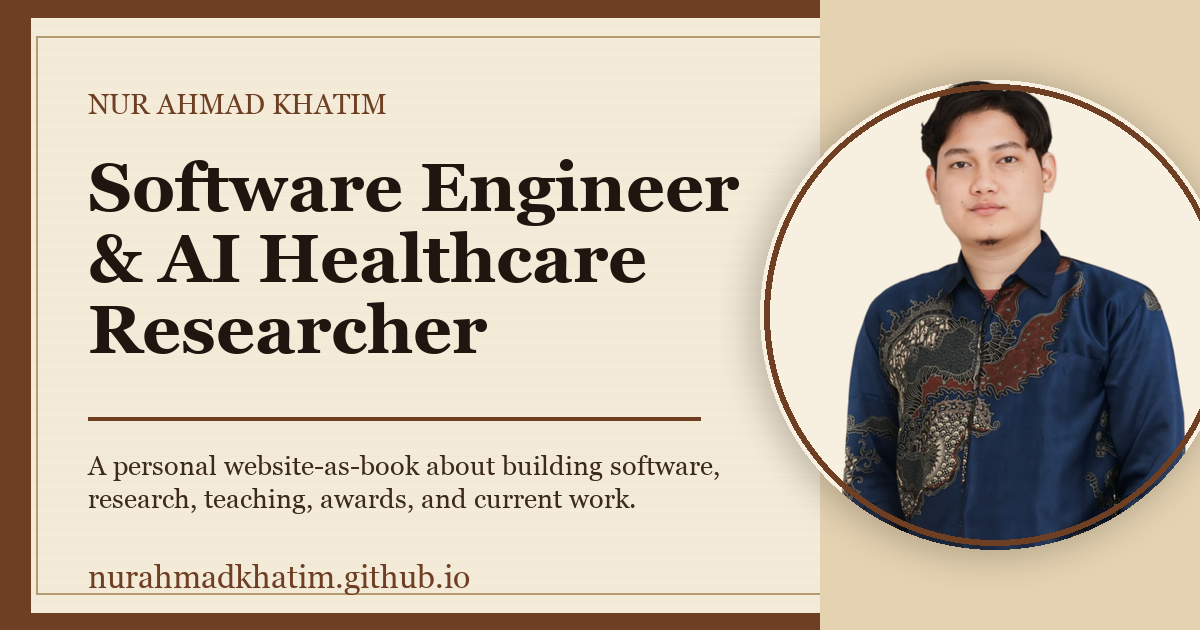
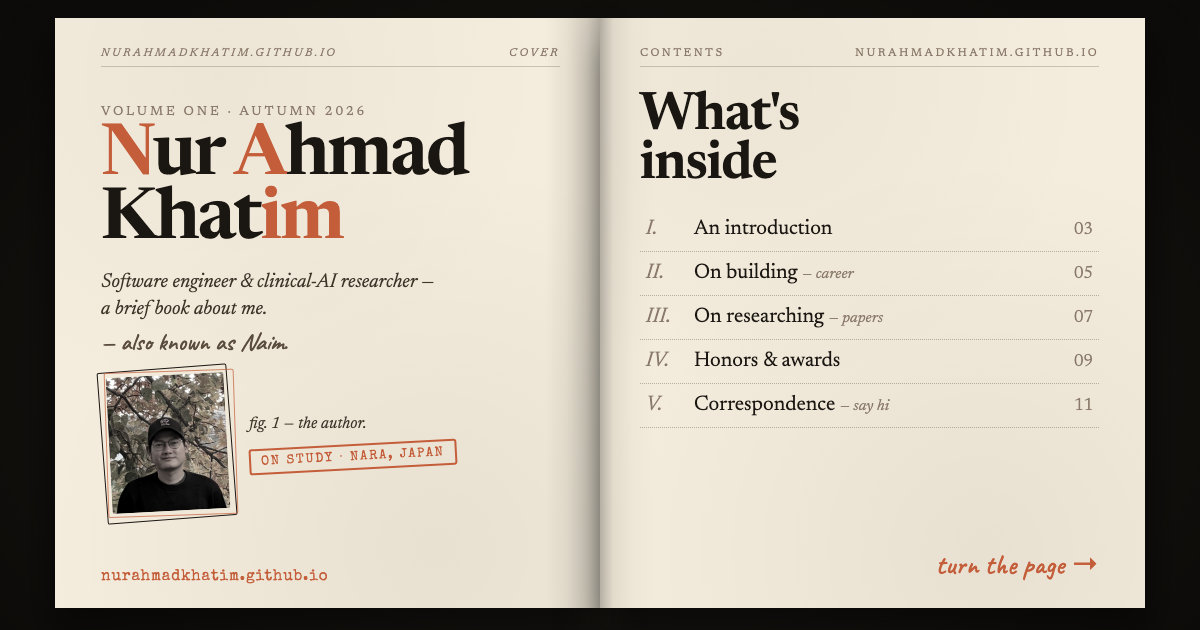
feat: update title and meta tags for improved SEO and clarity; replace og-image with new version

diff --git a/index.html b/index.html
@@ -3,7 +3,7 @@
   <head>
     <meta charset="UTF-8" />
     <meta name="viewport" content="width=device-width, initial-scale=1.0" />
-    <title>Nur Ahmad Khatim | Software Engineer & AI Healthcare Researcher</title>
+    <title>Nur Ahmad Khatim | Software Engineer & Clinical-AI Researcher</title>
     <meta
       name="description"
       content="Personal website of Nur Ahmad Khatim (Naim), a software engineer and clinical-AI researcher — MEXT Scholar at NAIST, Japan. Career, publications, honors and contact."
@@ -22,28 +22,28 @@
 
     <meta property="og:type" content="website" />
     <meta property="og:site_name" content="Nur Ahmad Khatim" />
-    <meta property="og:title" content="Nur Ahmad Khatim | Software Engineer & AI Healthcare Researcher" />
+    <meta property="og:title" content="Nur Ahmad Khatim | Software Engineer & Clinical-AI Researcher" />
     <meta
       property="og:description"
       content="A personal website-as-book about building software, researching clinical AI, honors, and how to get in touch."
     />
     <meta property="og:url" content="https://nurahmadkhatim.github.io/" />
-    <meta property="og:image" content="https://nurahmadkhatim.github.io/og-image.png" />
-    <meta property="og:image:secure_url" content="https://nurahmadkhatim.github.io/og-image.png" />
+    <meta property="og:image" content="https://nurahmadkhatim.github.io/og-image.png?v=2" />
+    <meta property="og:image:secure_url" content="https://nurahmadkhatim.github.io/og-image.png?v=2" />
     <meta property="og:image:type" content="image/png" />
     <meta property="og:image:width" content="1200" />
     <meta property="og:image:height" content="630" />
-    <meta property="og:image:alt" content="Nur Ahmad Khatim personal website preview" />
+    <meta property="og:image:alt" content="An open book: the cover page of Nur Ahmad Khatim, software engineer and clinical-AI researcher, with a photo, beside the contents page" />
     <meta property="og:locale" content="en_US" />
 
     <meta name="twitter:card" content="summary_large_image" />
-    <meta name="twitter:title" content="Nur Ahmad Khatim | Software Engineer & AI Healthcare Researcher" />
+    <meta name="twitter:title" content="Nur Ahmad Khatim | Software Engineer & Clinical-AI Researcher" />
     <meta
       name="twitter:description"
       content="A personal website-as-book about building software, researching clinical AI, honors, and how to get in touch."
     />
-    <meta name="twitter:image" content="https://nurahmadkhatim.github.io/og-image.png" />
-    <meta name="twitter:image:alt" content="Nur Ahmad Khatim personal website preview" />
+    <meta name="twitter:image" content="https://nurahmadkhatim.github.io/og-image.png?v=2" />
+    <meta name="twitter:image:alt" content="An open book: the cover page of Nur Ahmad Khatim, software engineer and clinical-AI researcher, with a photo, beside the contents page" />
 
     <script type="application/ld+json">
       {
